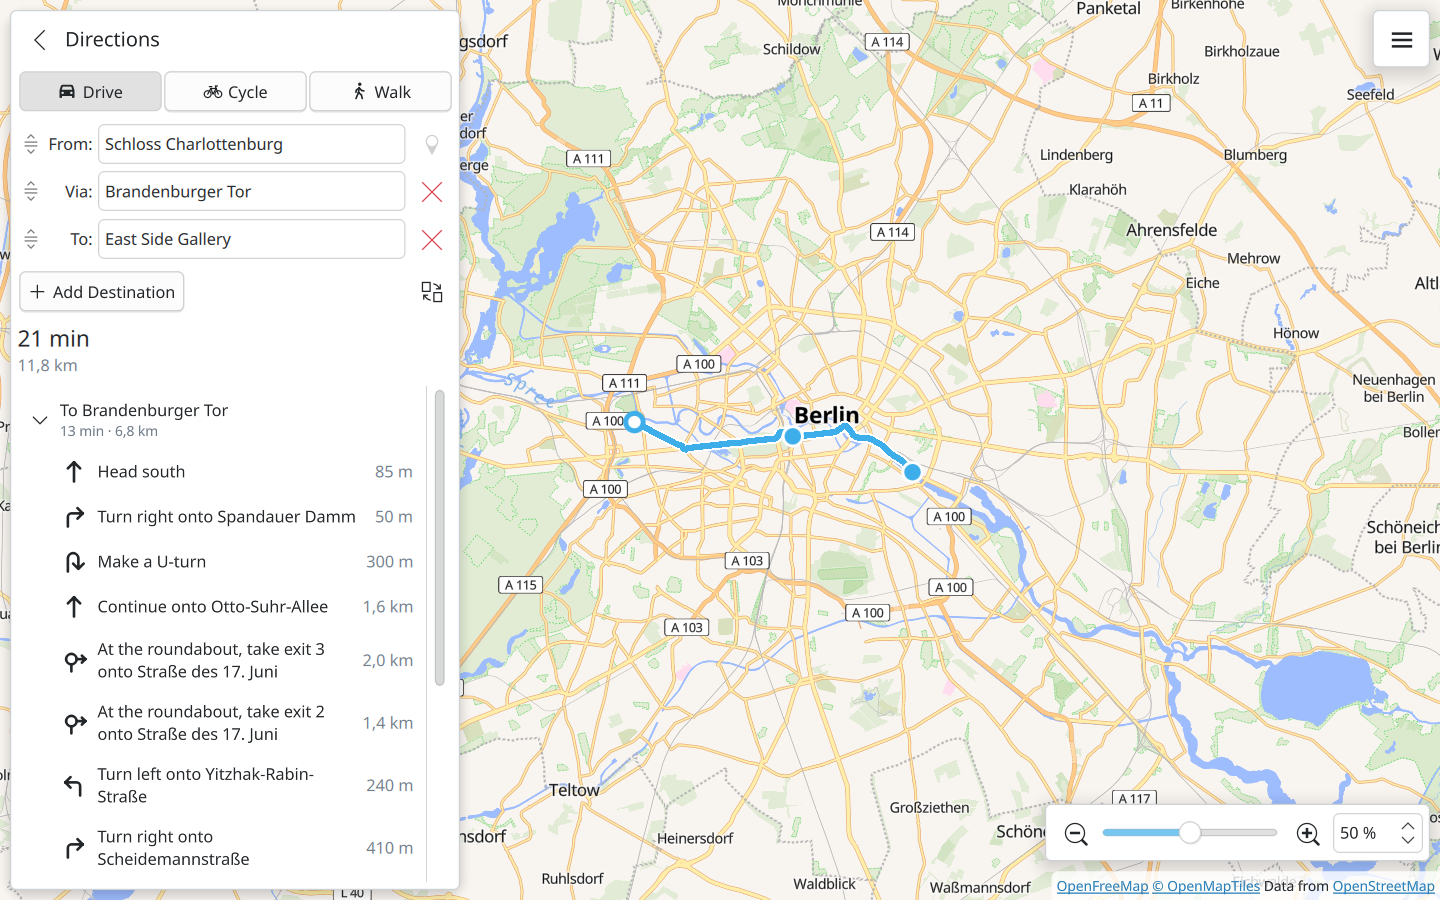
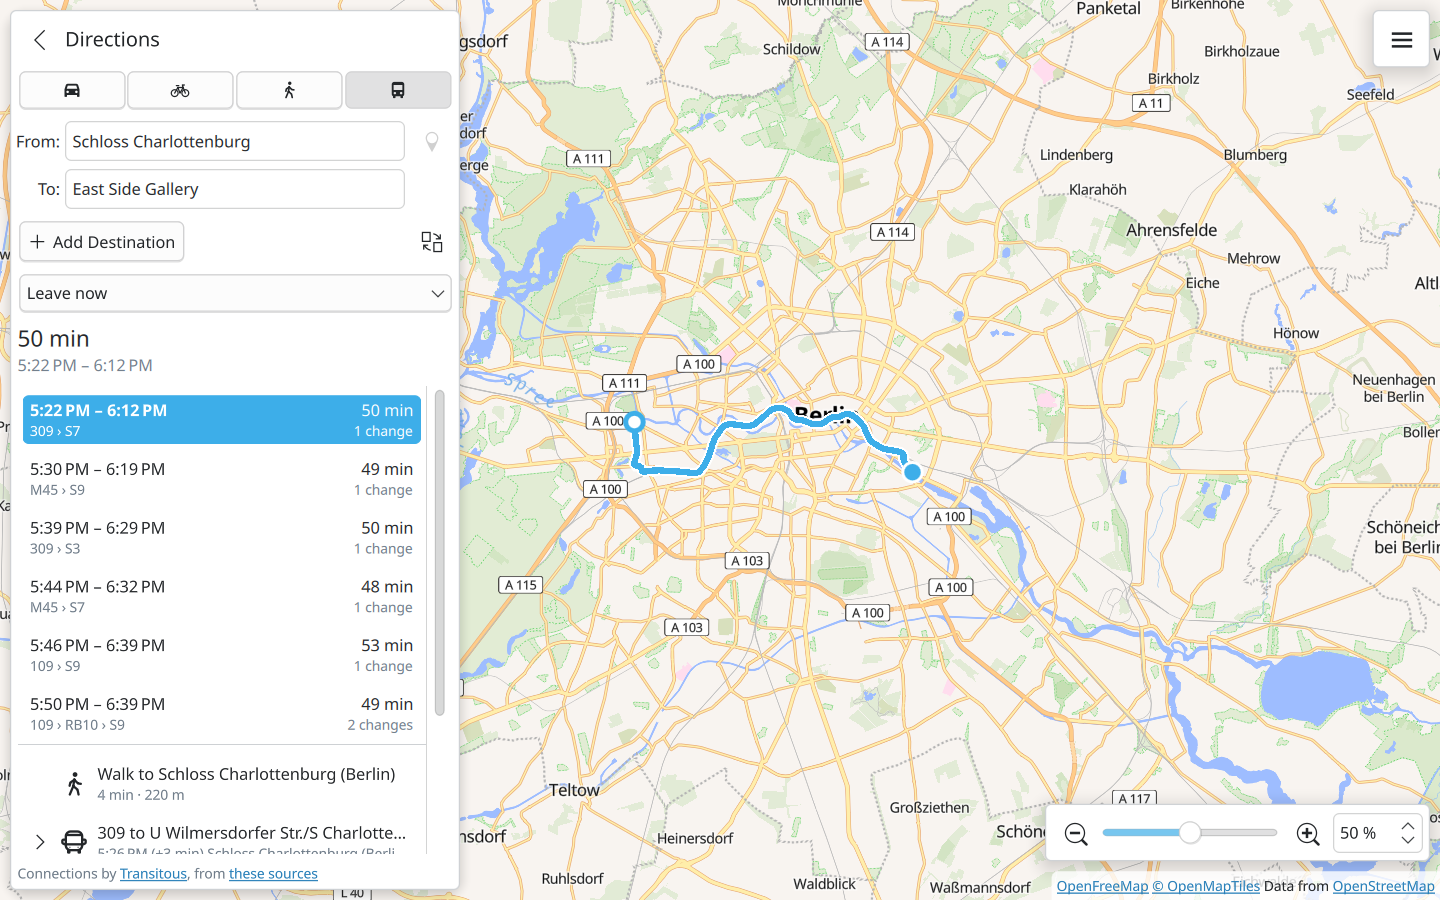
Show a public transport connection in the screenshot

diff --git a/README.md b/README.md
@@ -14,7 +14,7 @@ by car, by bicycle, on foot or by public transport. The map, routing and place
 search keep working without an internet connection for the areas you have
 downloaded; public transport needs a connection.
 
-![Karten showing a route through Berlin, from Schloss Charlottenburg by way of the Brandenburger Tor to the East Side Gallery, with the directions listed beside the map](docs/images/screenshot.png)
+![Karten showing a public transport connection through Berlin, from Schloss Charlottenburg to the East Side Gallery: a choice of connections with their times and changes beside the map, and the chosen one drawn on it](docs/images/screenshot.png)
 
 Map data © [OpenStreetMap](https://www.openstreetmap.org/copyright) contributors;
 the map is provided by [OpenFreeMap](https://openfreemap.org) and drawn by
